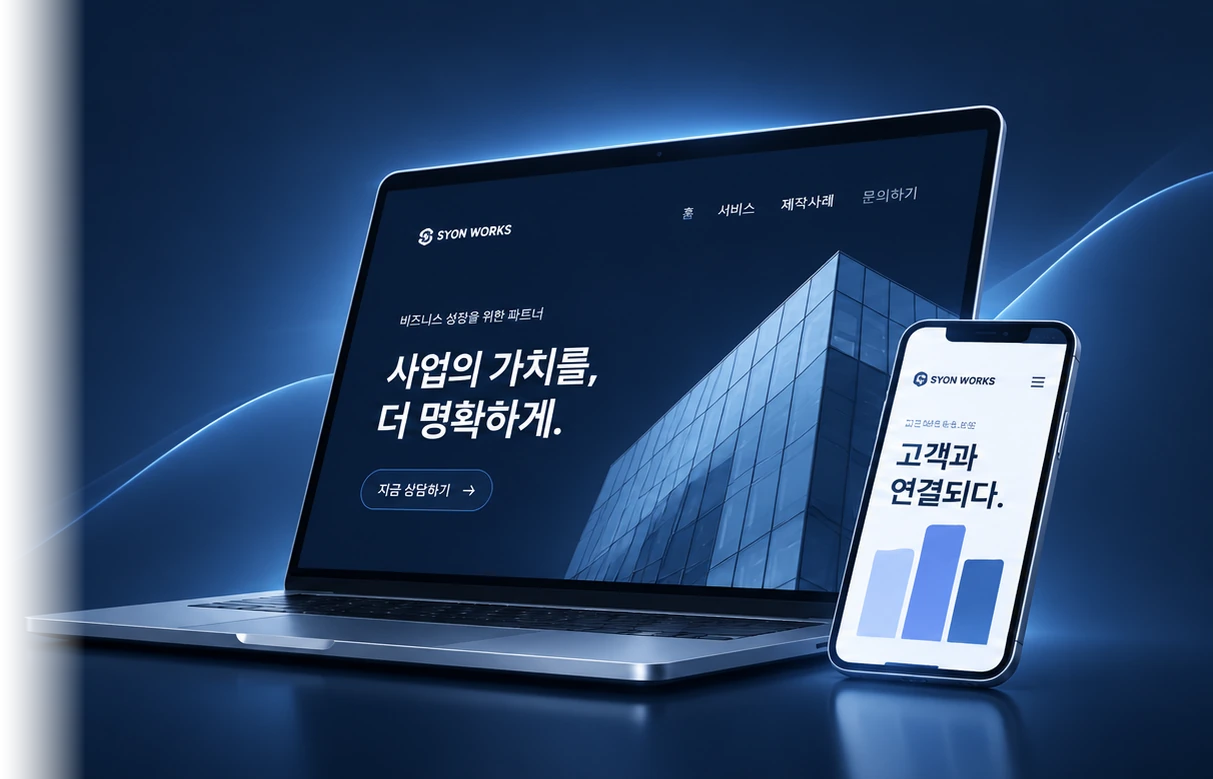
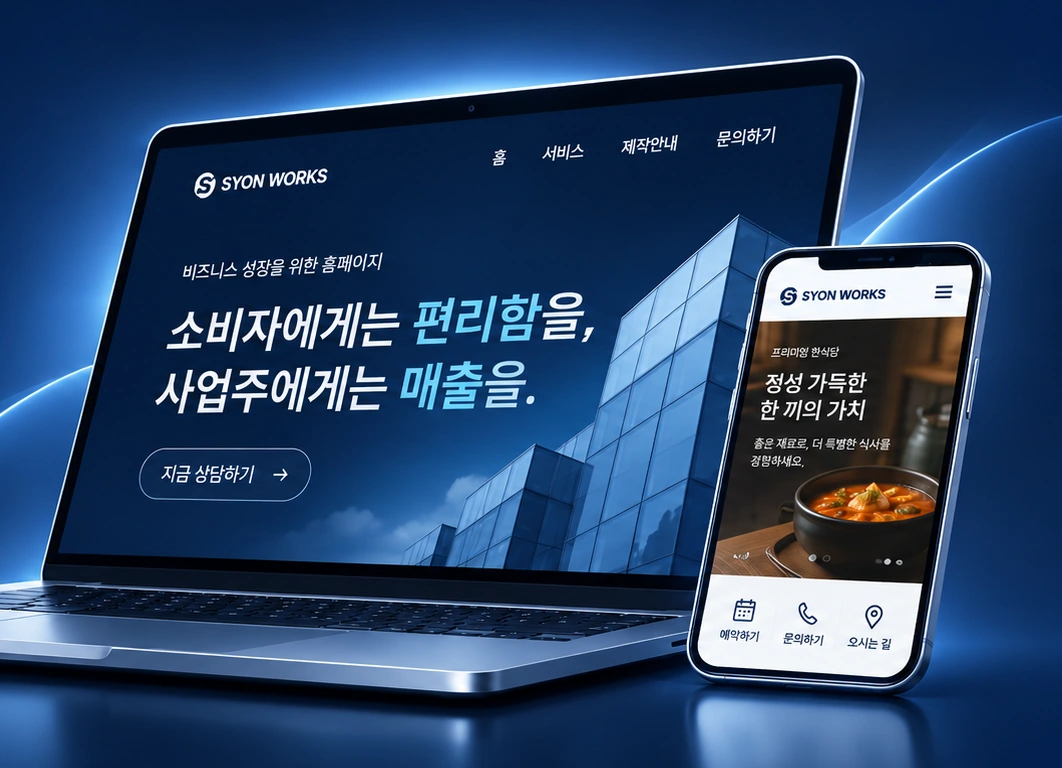
Add files via upload

diff --git a/home/index.html b/home/index.html
@@ -6,7 +6,7 @@
 <a class="header-cta" href="../contact/">문의하기 <span>↗</span></a>
 <button aria-controls="navigation" aria-expanded="false" aria-label="메뉴 열기" id="menu"><span></span><span></span></button>
 </div></header><main id="main"><section aria-labelledby="production-types-title" class="syon-offer" id="production-types"><div class="wrap syon-offer-wrap">
-<div class="syon-offer-intro"><div class="syon-offer-copy"><p class="syon-offer-kicker">SYON WORKS · WEBSITE SERVICE</p><h1 id="production-types-title">제작비보다 사업을<br/><span>먼저 생각합니다.</span></h1><p class="syon-offer-desc">제휴형부터 일반형까지, 업종과 목적에 맞는 홈페이지를 제안합니다.</p><div class="syon-offer-checks"><span><svg aria-hidden="true" class="" fill="none" height="24" stroke="currentColor" stroke-linecap="round" stroke-linejoin="round" stroke-width="1.7" viewbox="0 0 24 24" width="24"><path d="m5 12 4 4L19 6"></path></svg>매출 중심 설계</span><span><svg aria-hidden="true" class="" fill="none" height="24" stroke="currentColor" stroke-linecap="round" stroke-linejoin="round" stroke-width="1.7" viewbox="0 0 24 24" width="24"><path d="m5 12 4 4L19 6"></path></svg>업종 맞춤 기획</span><span><svg aria-hidden="true" class="" fill="none" height="24" stroke="currentColor" stroke-linecap="round" stroke-linejoin="round" stroke-width="1.7" viewbox="0 0 24 24" width="24"><path d="m5 12 4 4L19 6"></path></svg>합리적인 제작비</span><span><svg aria-hidden="true" class="" fill="none" height="24" stroke="currentColor" stroke-linecap="round" stroke-linejoin="round" stroke-width="1.7" viewbox="0 0 24 24" width="24"><path d="m5 12 4 4L19 6"></path></svg>제작 후 운영 지원</span></div></div><div class="syon-offer-visual"><img alt="노트북과 휴대폰에 함께 표시된 반응형 카페 홈페이지 제작 예시" fetchpriority="high" loading="eager" src="../assets/syon-hero-devices-clean.webp"/></div></div>
+<div class="syon-offer-intro"><div class="syon-offer-copy"><p class="syon-offer-kicker">SYON WORKS · WEBSITE SERVICE</p><h1 id="production-types-title">제작비보다 사업을<br/><span>먼저 생각합니다.</span></h1><p class="syon-offer-desc">제휴형부터 일반형까지, 업종과 목적에 맞는 홈페이지를 제안합니다.</p><div class="syon-offer-checks"><span><svg aria-hidden="true" class="" fill="none" height="24" stroke="currentColor" stroke-linecap="round" stroke-linejoin="round" stroke-width="1.7" viewbox="0 0 24 24" width="24"><path d="m5 12 4 4L19 6"></path></svg>매출 중심 설계</span><span><svg aria-hidden="true" class="" fill="none" height="24" stroke="currentColor" stroke-linecap="round" stroke-linejoin="round" stroke-width="1.7" viewbox="0 0 24 24" width="24"><path d="m5 12 4 4L19 6"></path></svg>업종 맞춤 기획</span><span><svg aria-hidden="true" class="" fill="none" height="24" stroke="currentColor" stroke-linecap="round" stroke-linejoin="round" stroke-width="1.7" viewbox="0 0 24 24" width="24"><path d="m5 12 4 4L19 6"></path></svg>합리적인 제작비</span><span><svg aria-hidden="true" class="" fill="none" height="24" stroke="currentColor" stroke-linecap="round" stroke-linejoin="round" stroke-width="1.7" viewbox="0 0 24 24" width="24"><path d="m5 12 4 4L19 6"></path></svg>제작 후 운영 지원</span></div></div><div class="syon-offer-visual"><img alt="노트북에는 소비자 편리함과 사업주 매출을 강조한 시온웍스 홈페이지, 휴대폰에는 예약 기능이 있는 가상 모바일 홈페이지 예시" fetchpriority="high" loading="eager" src="../assets/syon-hero-devices-clean.webp"/></div></div>
 <div class="syon-offer-grid"><article class="syon-offer-card syon-offer-partner"><div class="syon-offer-card-top"><div class="syon-offer-card-icon"><svg aria-hidden="true" class="" fill="none" height="24" stroke="currentColor" stroke-linecap="round" stroke-linejoin="round" stroke-width="1.7" viewbox="0 0 24 24" width="24"><path d="m2 12 4-4 4 2 4-2 4 4-5 5-3-2-2 2-4-4-2-1Z"></path><path d="m14 8 3-2 5 5-4 4M6 8 3 5l-2 2 2 3M18 8l3-3 2 2-2 3"></path></svg></div><div><h3>제휴형 홈페이지</h3><p class="syon-offer-price">제작비 <strong>0원</strong></p></div></div><p class="syon-offer-card-desc">시온웍스 제휴 프로그램을 통해 무료 제작으로<br/>홈페이지 시작하세요!</p><div class="syon-offer-features"><div class="syon-offer-feature"><svg aria-hidden="true" class="" fill="none" height="24" stroke="currentColor" stroke-linecap="round" stroke-linejoin="round" stroke-width="1.7" viewbox="0 0 24 24" width="24"><path d="m3 11 12-5v12L3 13zM15 9c3 0 4 2 4 3s-1 3-4 3M6 14l2 6h3l-2-6"></path></svg><strong>광고 · 제휴 연계</strong></div><div class="syon-offer-feature"><svg aria-hidden="true" class="" fill="none" height="24" stroke="currentColor" stroke-linecap="round" stroke-linejoin="round" stroke-width="1.7" viewbox="0 0 24 24" width="24"><circle cx="9" cy="8" r="5"></circle><path d="M4 8v7c0 3 10 3 10 0V8M17 10c3 0 5 1 5 3v6c0 3-8 4-10 2"></path></svg><strong>수익모델 제공</strong></div><div class="syon-offer-feature"><svg aria-hidden="true" class="" fill="none" height="24" stroke="currentColor" stroke-linecap="round" stroke-linejoin="round" stroke-width="1.7" viewbox="0 0 24 24" width="24"><rect height="12" rx="1" width="18" x="3" y="9"></rect><path d="M12 9v12M3 13h18M12 9C7 9 5 6 7 4c2-2 5 1 5 5Zm0 0c5 0 7-3 5-5-2-2-5 1-5 5Z"></path></svg><strong>제휴 혜택 적용</strong></div></div><a class="syon-offer-card-button" href="../contact/?type=partnership#apply" aria-label="제휴형 문의">제휴형 문의 <span aria-hidden="true">→</span></a></article>
 <article class="syon-offer-card syon-offer-standard"><div class="syon-offer-card-top"><div class="syon-offer-card-icon"><svg aria-hidden="true" class="" fill="none" height="24" stroke="currentColor" stroke-linecap="round" stroke-linejoin="round" stroke-width="1.7" viewbox="0 0 24 24" width="24"><rect height="15" rx="2" width="20" x="2" y="3"></rect><path d="M12 18v4M7 22h10"></path></svg></div><div><h3>일반형 홈페이지</h3><p class="syon-offer-price"><strong>별도 견적</strong></p></div></div><p class="syon-offer-card-desc">업종, 페이지 수, 디자인, 필요한 기능에 따라<br class="desktop-only"/> 합리적인 맞춤 견적을 안내해 드립니다.</p><div class="syon-offer-features"><div class="syon-offer-feature"><svg aria-hidden="true" class="" fill="none" height="24" stroke="currentColor" stroke-linecap="round" stroke-linejoin="round" stroke-width="1.7" viewbox="0 0 24 24" width="24"><path d="m12 2 9 6-9 6-9-6 9-6Zm-9 11 9 6 9-6M3 18l9 5 9-5"></path></svg><strong>맞춤형 제작</strong></div><div class="syon-offer-feature"><svg aria-hidden="true" class="" fill="none" height="24" stroke="currentColor" stroke-linecap="round" stroke-linejoin="round" stroke-width="1.7" viewbox="0 0 24 24" width="24"><circle cx="12" cy="12" r="3"></circle><path d="m10 2-1 3-3 1-3-1-2 4 2 2v3l-2 2 2 4 3-1 3 1 1 3h4l1-3 3-1 3 1 2-4-2-2v-3l2-2-2-4-3 1-3-1-1-3z"></path></svg><strong>기능 커스터마이징</strong></div><div class="syon-offer-feature"><svg aria-hidden="true" class="" fill="none" height="24" stroke="currentColor" stroke-linecap="round" stroke-linejoin="round" stroke-width="1.7" viewbox="0 0 24 24" width="24"><path d="M3 14v-3a9 9 0 0 1 18 0v3M3 13h4v7H5a2 2 0 0 1-2-2v-5Zm14 0h4v5a2 2 0 0 1-2 2h-2v-7ZM19 20c0 2-2 3-6 3h-2"></path></svg><strong>제작 후 지원</strong></div></div><a class="syon-offer-card-button" href="../contact/?type=standard#apply" aria-label="일반형 문의">일반형 문의 <span aria-hidden="true">→</span></a></article></div>
 <p class="syon-offer-condition-note">제휴형 무료 제작은 선정 및 기본 제작 범위 등 제휴 조건이 적용됩니다. 운영·추가 기능 비용은 상담 시 안내해 드립니다.</p>
